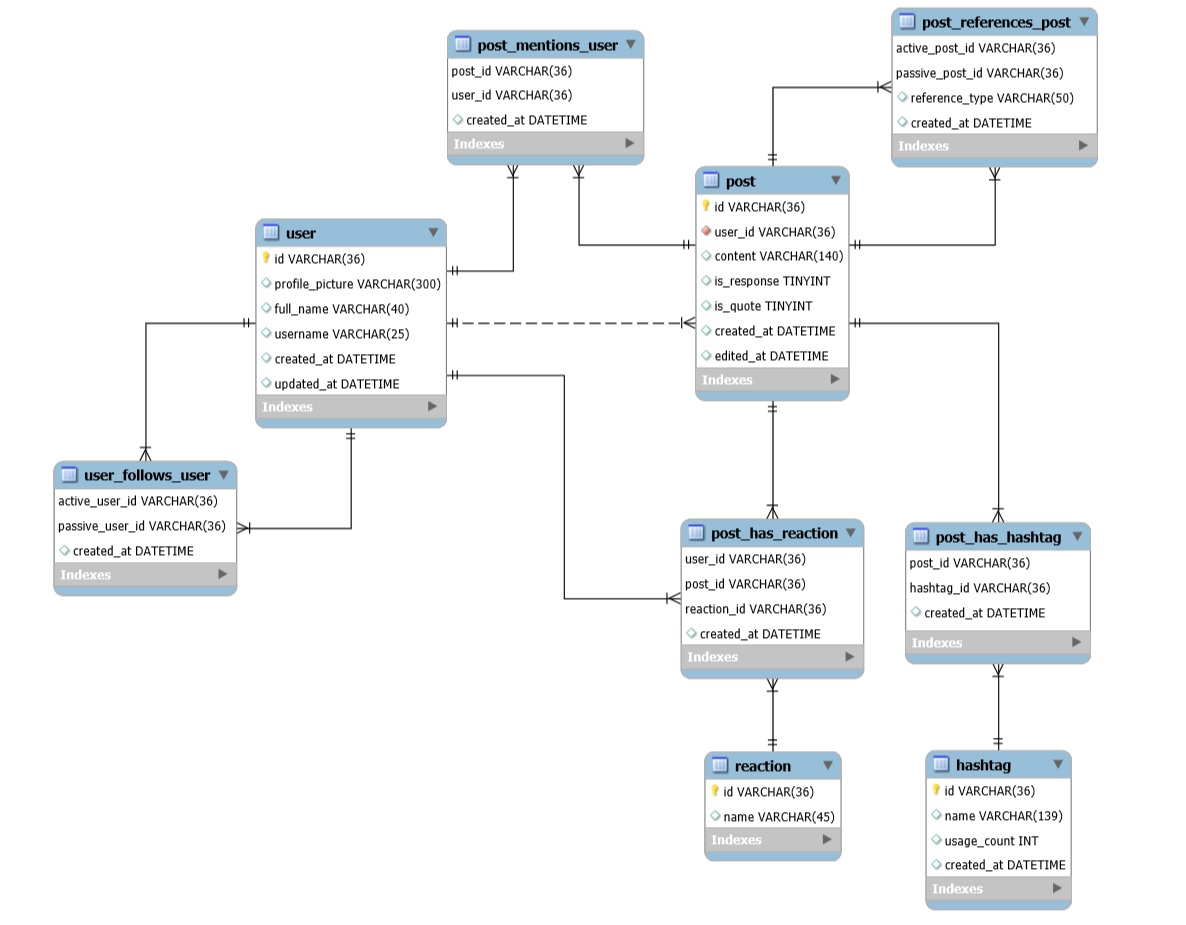
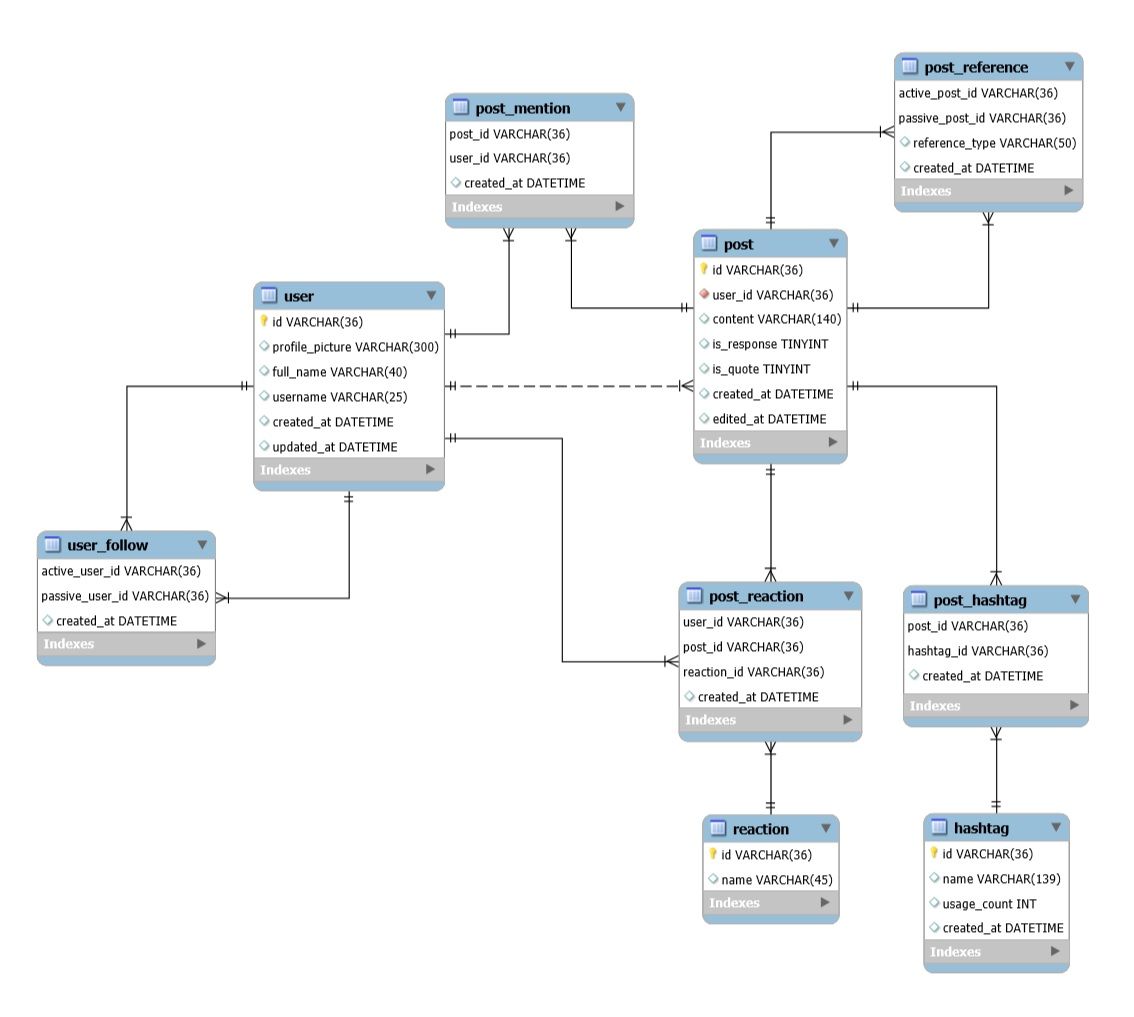
Create all models

diff --git a/api/models/index.js b/api/models/index.js
@@ -1,0 +1,40 @@
+const User = require('../models/User')
+const Post = require('../models/Post')
+const PostMention = require('../models/PostMention')
+const PostReference = require('../models/PostReference')
+const UserFollow = require('../models/UserFollow')
+const Reaction = require('../models/Reaction')
+const PostReaction = require('../models/PostReaction')
+const Hashtag = require('../models/Hashtag')
+const PostHashtag = require('../models/PostHashtag')
+
+PostReaction.belongsTo(Reaction)
+
+Post.belongsTo(User, { onDelete: 'CASCADE' })
+User.belongsToMany(Post, { through: PostMention })
+Hashtag.belongsToMany(Post, { through: PostHashtag })
+Reaction.belongsToMany(Post, {
+  through: PostReaction,
+  as: 'reaction',
+  foreignKey: 'post_id',
+  constraints: false
+})
+User.hasMany(PostReaction)
+
+Post.belongsToMany(Post, {
+  as: 'active_post',
+  through: PostReference,
+  foreignKey: 'passive_post_id'
+})
+User.belongsToMany(User, {
+  as: 'active_user',
+  through: UserFollow,
+  foreignKey: 'passive_user_id'
+})
+
+module.exports = {
+  User,
+  Post,
+  PostMention,
+  PostReference
+}

diff --git a/api/models/Hashtag.js b/api/models/Hashtag.js
@@ -1,15 +1,14 @@
 const Sequelize = require('sequelize')
 const sequelize = require('../utils/database')
 
-const Post = sequelize.define('post', {
+const Hashtag = sequelize.define('hashtag', {
   id: {
     type: Sequelize.UUID,
     allowNull: false,
     primaryKey: true
   },
-  content: Sequelize.STRING(140),
-  is_quote: Sequelize.BOOLEAN,
-  is_response: Sequelize.BOOLEAN
+  name: Sequelize.STRING(139),
+  usage_count: Sequelize.INTEGER
 }, { freezeTableName: true })
 
-module.exports = Post
+module.exports = Hashtag

diff --git a/api/models/Reaction.js b/api/models/Reaction.js
@@ -1,15 +1,13 @@
 const Sequelize = require('sequelize')
 const sequelize = require('../utils/database')
 
-const Post = sequelize.define('post', {
+const Reaction = sequelize.define('reaction', {
   id: {
     type: Sequelize.UUID,
     allowNull: false,
     primaryKey: true
   },
-  content: Sequelize.STRING(140),
-  is_quote: Sequelize.BOOLEAN,
-  is_response: Sequelize.BOOLEAN
+  name: Sequelize.STRING(45)
 }, { freezeTableName: true })
 
-module.exports = Post
+module.exports = Reaction

diff --git a/api/controllers/user.js b/api/controllers/user.js
@@ -1,15 +1,7 @@
-const User = require('../models/User')
+const { User, Post, PostMention } = require('../models')
 
-console.log(User)
+console.log(User, Post, PostMention)
 
-exports.update = async (req, res) => {
-  console.log('Updated!', req.params.userId)
+exports.create = async (req, res) => {
 
-  res.status(200).json({ updated: true })
-}
-
-exports.get = (req, res) => {
-  console.log('Got!', req.params.userId)
-
-  res.status(200).json({ got: true })
 }

diff --git a/api/utils/database.js b/api/utils/database.js
@@ -1,14 +1,9 @@
 const Sequelize = require('sequelize')
-const User = require('../models/User')
-const Post = require('../models/Post')
 
 const sequelize = new Sequelize('twitter-lite', 'root', 'root', {
   dialect: 'mysql',
   host: 'localhost',
   define: { underscored: true }
 })
-
-// Relationships go here
-Post.belongsTo(User, { onDelete: 'CASCADE' })
 
 module.exports = sequelize

diff --git a/api/routes/user.js b/api/routes/user.js
@@ -1,8 +1,7 @@
 const router = require('express').Router()
-const { get, update } = require('../controllers/user')
+const { create } = require('../controllers/user')
 
 router.route('/user/:userId')
-  .get(get)
-  .put(update)
+  .post(create)
 
 module.exports = router

diff --git a/api/models/PostReference.js b/api/models/PostReference.js
@@ -1,0 +1,8 @@
+const Sequelize = require('sequelize')
+const sequelize = require('../utils/database')
+
+const PostReference = sequelize.define('post_reference', {
+  reference_type: Sequelize.STRING(50)
+}, { freezeTableName: true })
+
+module.exports = PostReference

diff --git a/api/test/controllers/user.create.test.js b/api/test/controllers/user.create.test.js
@@ -1,0 +1,10 @@
+describe('User creation', () => {
+
+  it('Should return a user object', () => {
+    expect(typeof user).toBe('object')
+  })
+
+  it('Should return a user with a name', () => {
+    expect(user.name).toBeTruthy()
+  })
+})

diff --git a/api/models/User.js b/api/models/User.js
@@ -10,6 +10,6 @@ const User = sequelize.define('user', {
   profile_picture: Sequelize.STRING(300),
   username: Sequelize.STRING(25),
   full_name: Sequelize.STRING(40)
-})
+}, { freezeTableName: true })
 
 module.exports = User

diff --git a/api/index.js b/api/index.js
@@ -7,6 +7,6 @@ app.use(urlencoded({ extended: false }))
 app.use(require('./routes/user'))
 
 sequelize
-  .sync({ force: true })
+  .sync()
   .then(() => app.listen(3000))
   .catch(err => console.log(err))

diff --git a/api/models/PostReaction.js b/api/models/PostReaction.js
@@ -1,0 +1,5 @@
+const sequelize = require('../utils/database')
+
+const PostReaction = sequelize.define('post_reaction', {}, { freezeTableName: true })
+
+module.exports = PostReaction

diff --git a/api/models/PostHashtag.js b/api/models/PostHashtag.js
@@ -1,0 +1,5 @@
+const sequelize = require('../utils/database')
+
+const PostHashtag = sequelize.define('post_hashtag', {}, { freezeTableName: true })
+
+module.exports = PostHashtag
